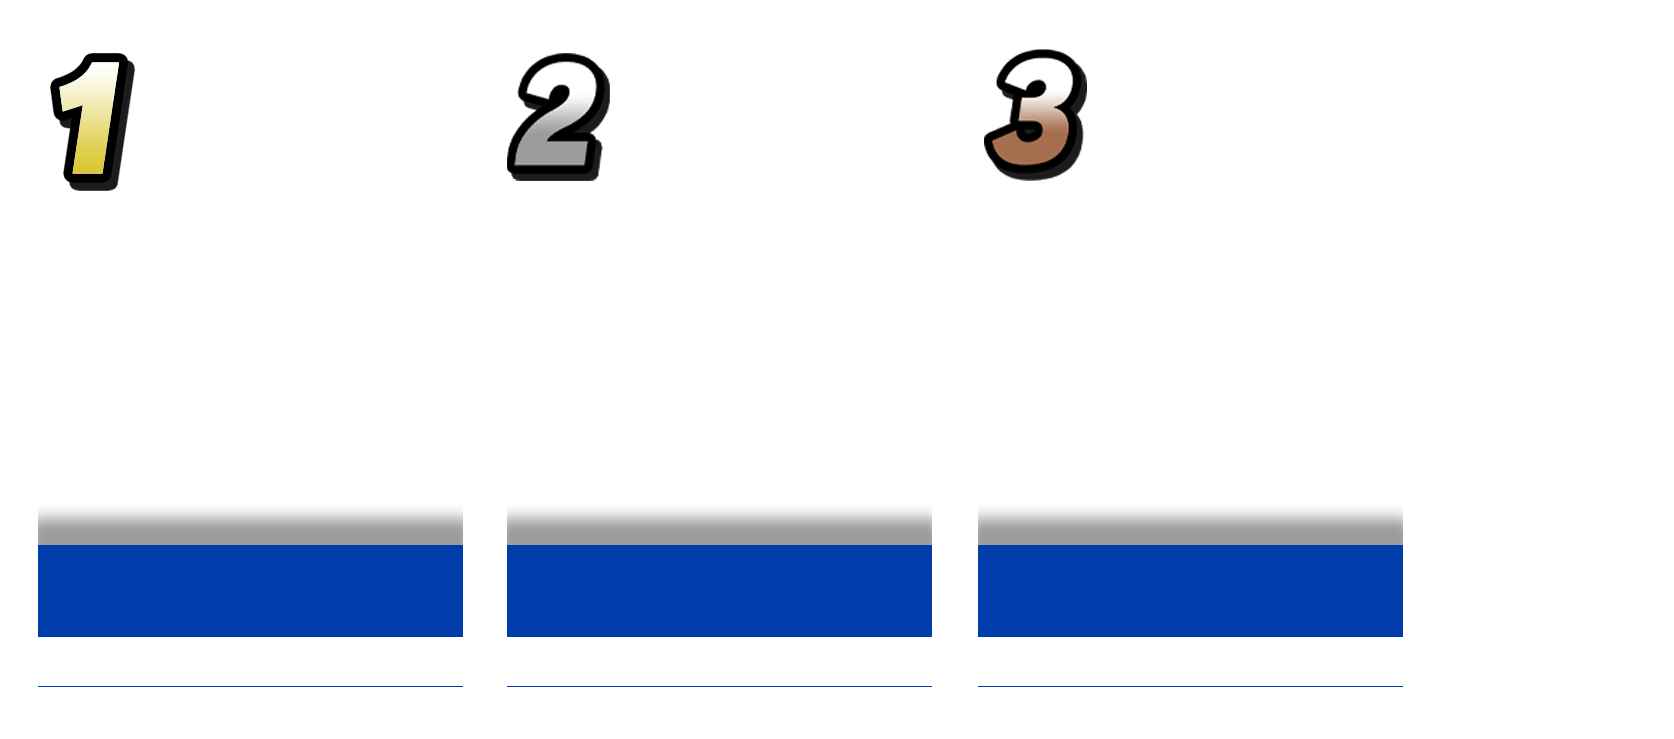
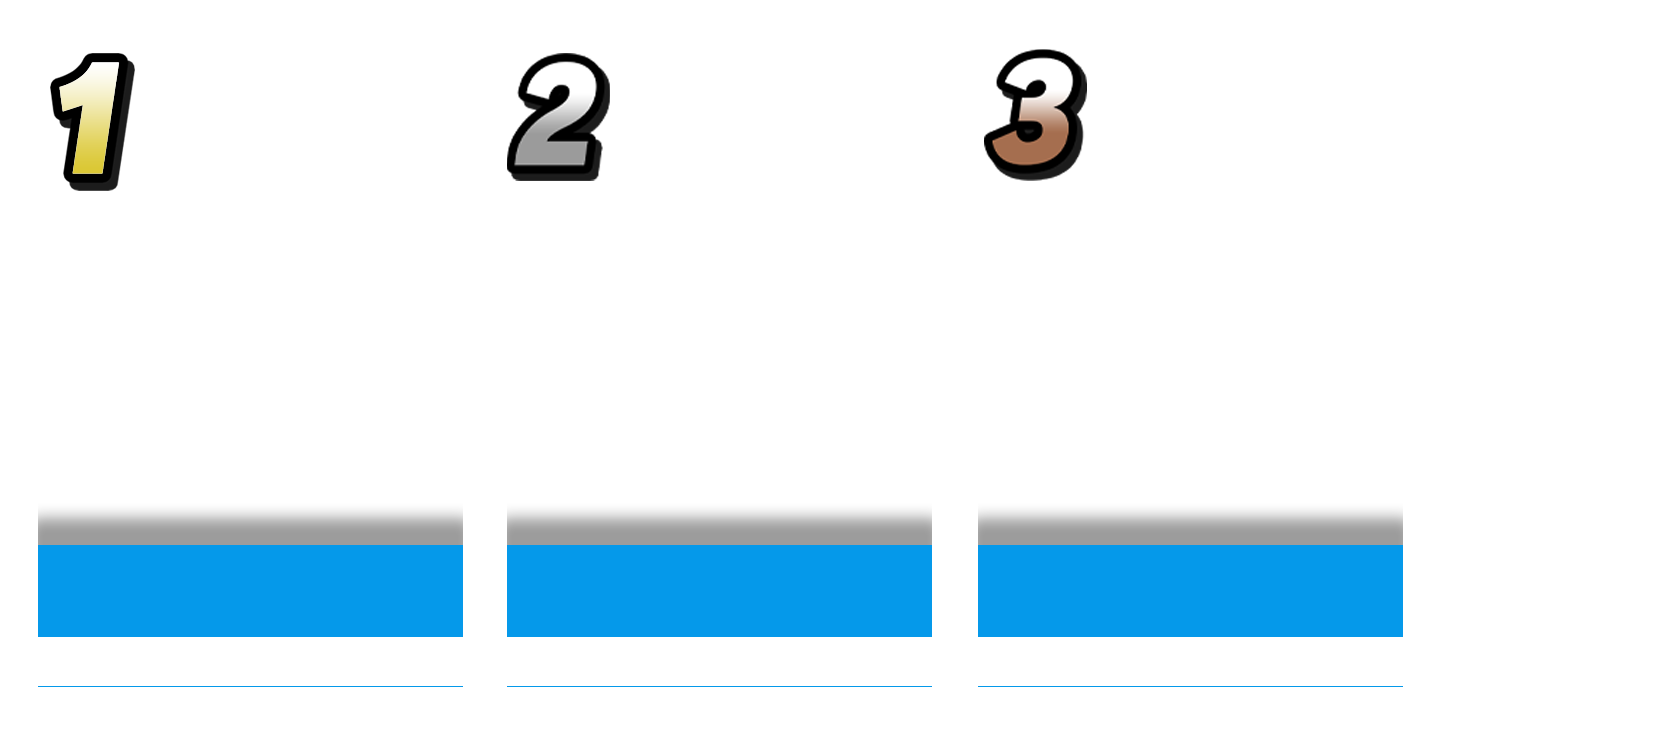
render player data

Changed region(s): [[0.0, 0.7158, 0.8387, 0.8714]]

diff --git a/src/components/Canvas.vue b/src/components/Canvas.vue
@@ -17,6 +17,7 @@ export default {
       thirdCharMask: new Image(),
       aniplayLogo: new Image(),
       qdLogo: new Image(),
+      twitterIcon: new Image(),
       showSave: false,
     };
   },
@@ -26,6 +27,7 @@ export default {
     this.thirdCharMask.src = require("../assets/mask/mask3.png");
     this.aniplayLogo.src = require("../assets/venues/aniplay.png");
     this.qdLogo.src = require("../assets/venues/qd.png");
+    this.twitterIcon.src =  require("../assets/twitter_icon.png");
   },
   methods: {
     generate(form) {
@@ -64,6 +66,52 @@ export default {
 
         //Text
         ctx.textAlign = "center";
+        
+        //First Place name and prefix
+        ctx.font = '96px "Bebas Neue"'
+        ctx.fillStyle = "#fbd059";
+        ctx.fillText(form.playerData.first.prefix, 245 - ctx.measureText(form.playerData.first.name).width / 2, 625);
+        ctx.fillStyle = "#FFFFFF";
+        const firstNameX = ((form.playerData.first.prefix) ? 260 : 245);
+        ctx.fillText(form.playerData.first.name, firstNameX + ctx.measureText(form.playerData.first.prefix).width / 2, 625)  
+        //First Place twitter
+        if(form.playerData.first.twitter) {
+          ctx.font = '42px "Bebas Neue"'
+          ctx.fillStyle = "#000000";
+          ctx.fillText(`@${form.playerData.first.twitter}`, 245, 677);
+          ctx.drawImage(this.twitterIcon, 45, 645);
+        }
+
+        //Second Place name and prefix
+        ctx.font = '96px "Bebas Neue"'
+        ctx.fillStyle = "#fbd059";
+        ctx.fillText(form.playerData.second.prefix, 715 - ctx.measureText(form.playerData.second.name).width / 2, 625);
+        ctx.fillStyle = "#FFFFFF";
+        const secondNameX = ((form.playerData.second.prefix) ? 730 : 715);
+        ctx.fillText(form.playerData.second.name, secondNameX + ctx.measureText(form.playerData.second.prefix).width / 2, 625)  
+        //Second Place twitter
+        if(form.playerData.second.twitter) {
+          ctx.font = '42px "Bebas Neue"'
+          ctx.fillStyle = "#000000";
+          ctx.fillText(`@${form.playerData.second.twitter}`, 715, 677);
+          ctx.drawImage(this.twitterIcon, 515, 645);
+        }
+
+        //Third Place name and prefix
+        ctx.font = '96px "Bebas Neue"'
+        ctx.fillStyle = "#fbd059";
+        ctx.fillText(form.playerData.third.prefix, 1187 - ctx.measureText(form.playerData.third.name).width / 2, 625);
+        ctx.fillStyle = "#FFFFFF";
+        const thirdNameX = ((form.playerData.third.prefix) ? 1202 : 1187);
+        ctx.fillText(form.playerData.third.name, thirdNameX + ctx.measureText(form.playerData.third.prefix).width / 2, 625)  
+        //Third Place twitter
+        if(form.playerData.third.twitter) {
+          ctx.font = '42px "Bebas Neue"'
+          ctx.fillStyle = "#000000";
+          ctx.fillText(`@${form.playerData.third.twitter}`, 1187, 677);
+          ctx.drawImage(this.twitterIcon, 987, 645);
+        }
+
         //Tournament name with number
         ctx.font = '20px "The Bold Font"'
         ctx.fillStyle = "#FFFFFF";
@@ -73,11 +121,11 @@ export default {
         ctx.font = '22px "Bebas Neue"'
         ctx.fillStyle = "#FFFFFF";
         ctx.fillText(`start.gg/`, 1557 - ctx.measureText(form.page).width / 2, 634);
-        ctx.fillStyle = "#013daa";
+        ctx.fillStyle = "#0599ea";
         ctx.fillText(form.page, 1557 + ctx.measureText(`start.gg/`).width / 2, 634) 
 
         //Entrants
-        // ctx.fillStyle = "#013daa"; 
+        // ctx.fillStyle = "#0599ea"; 
         ctx.fillText(form.entrants, 1557 - ctx.measureText(' Entrants').width / 2, 679);
         ctx.fillStyle = "#FFFFFF";
         ctx.fillText(' Entrants', 1557 + ctx.measureText(form.entrants).width / 2, 679) 
@@ -85,7 +133,7 @@ export default {
         //Date  
         // ctx.fillStyle = "#FFFFFF"; 
         ctx.fillText(form.date, 1557 - ctx.measureText(' - Porto').width / 2, 726);
-        ctx.fillStyle = "#013daa";
+        ctx.fillStyle = "#0599ea";
         ctx.fillText(' - Porto', 1557 + ctx.measureText(form.date).width / 2, 726) 
 
 
@@ -104,7 +152,7 @@ export default {
       link.href = dataURL;
 
       // Specify the filename for the saved image
-      link.download = "canvas_image.png";
+      link.download = "generated_top3.png";
 
       // Simulate a click on the link to trigger the download
       link.click();
